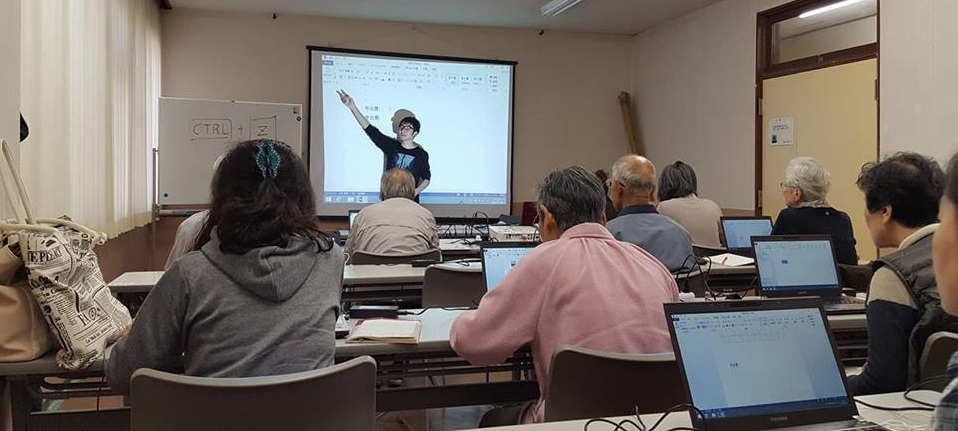
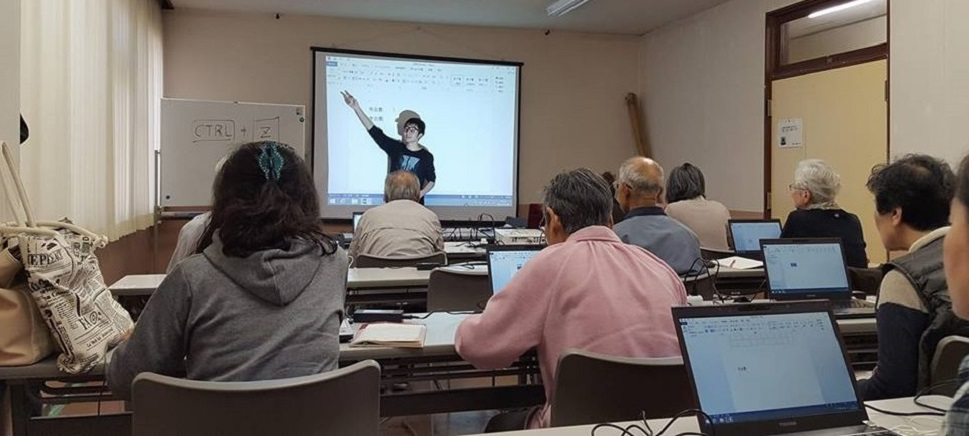
画像のサイズを縦436に指定。

diff --git a/index.html b/index.html
@@ -14,10 +14,9 @@
 <nav class="navbar navbar-light navcolor">
     <div class="navfont"><h1>地域連携パソコンプロジェクト</h1></div>
 </nav>
-
 <div class="bodycolor">
 <div class="top">
-    <img class="topimage" src="image/20171108.jpg">
+    <img class="topimage" src="image/20171108_2.jpg">
 </div>
 <div class="container">
 <div class="row column-margin">
